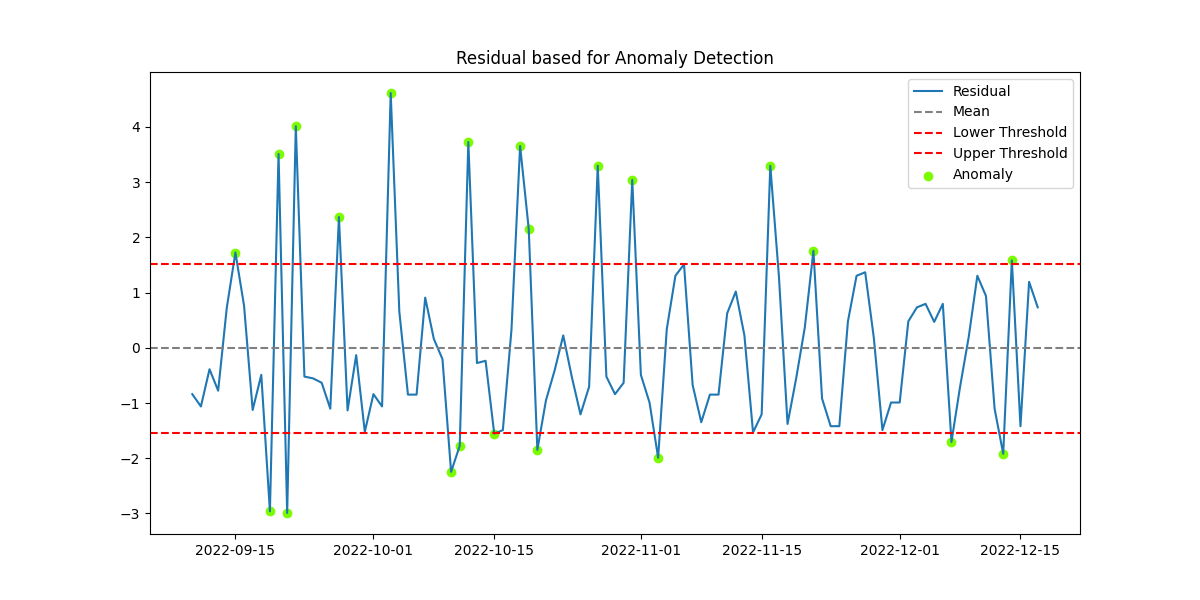
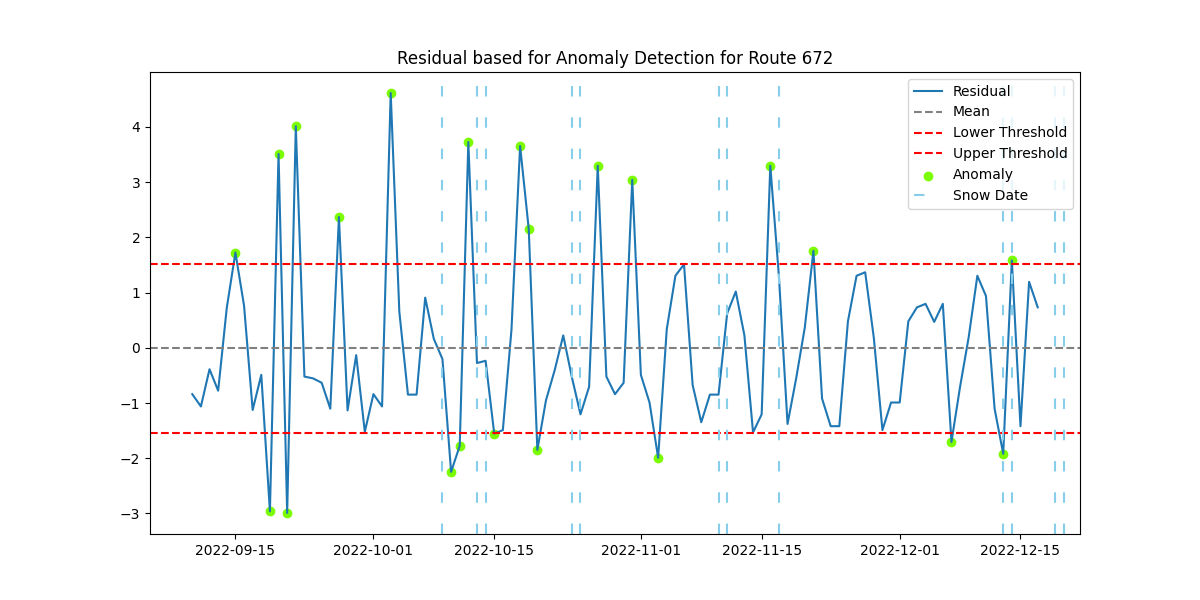
Add snow dates

Changed region(s): [[0.3392, 0.09, 0.6783, 0.12], [0.7708, 0.3, 0.8633, 0.36]]

diff --git a/passup_anomaly/code/time_series.py b/passup_anomaly/code/time_series.py
@@ -58,6 +58,11 @@ def anomaly_detection(decomposition, route_number):
     anomalies_df['Date'].to_csv(
         os.getcwd()+'/passup_anomaly/anomaly_dates/'+route_number+'.csv', index=False, header=False)
 
+    # Reading snow dates
+    snow_dates = pd.read_csv(
+        os.getcwd() + '/passup_anomaly/snow-Q42022.csv', header=None, names=['Time'])
+    snow_dates['Time'] = pd.to_datetime(snow_dates['Time'])
+
     # Plot the anomalies
     plt.figure(figsize=(12, 6))
     plt.plot(residual, label='Residual')
@@ -67,8 +72,14 @@ def anomaly_detection(decomposition, route_number):
     plt.axhline(upper_threshold, color='red',
                 linestyle='--', label='Upper Threshold')
     plt.scatter(anomalies.index, anomalies, color='lawngreen', label='Anomaly')
+
+    # Highlighting snow dates
+    for snow_date in snow_dates['Time']:
+        plt.axvline(x=snow_date, color='skyblue', linestyle=(
+            0, (5, 10)), label='Snow Date' if snow_date == snow_dates['Time'].iloc[0] else "")
+
     plt.legend()
-    plt.title('Residual based for Anomaly Detection')
+    plt.title('Residual based for Anomaly Detection for Route ' + route_number)
     plt.savefig(os.getcwd() + '/passup_anomaly/anomaly_detection/' +
                 route_number+'.png')
     plt.close()
@@ -76,14 +87,26 @@ def anomaly_detection(decomposition, route_number):
 
 def plot_passup(route_number):
     data = pd.read_csv(
-        os.getcwd() + '/passup_anomaly/route_passup/'+route_number+'.csv')
+        os.getcwd() + '/passup_anomaly/route_passup/' + route_number + '.csv')
     data['Time'] = pd.to_datetime(data['Time'])
-    data = data[(data['Time'] >= '2022-01-01') &
+    data = data[(data['Time'] >= '2022-09-01') &
                 (data['Time'] <= '2022-12-31')]
+
+    # Reading snow dates
+    snow_dates = pd.read_csv(
+        os.getcwd() + '/passup_anomaly/snow-Q42022.csv', header=None, names=['Time'])
+    snow_dates['Time'] = pd.to_datetime(snow_dates['Time'])
+
     plt.figure(figsize=(12, 6))
     plt.plot(data['Time'], data['Passup'], label='Pass-up')
+
+    # Highlighting snow dates
+    for snow_date in snow_dates['Time']:
+        plt.axvline(x=snow_date, color='skyblue', linestyle=(
+            0, (5, 10)), label='Snow Date' if snow_date == snow_dates['Time'].iloc[0] else "")
+
     plt.legend()
-    plt.title('Pass-up for Route' + route_number)
+    plt.title('Pass-up for Route ' + route_number)
     plt.savefig(os.getcwd() + '/passup_anomaly/route_passup_img/' +
                 route_number + '.png')
     plt.close()
